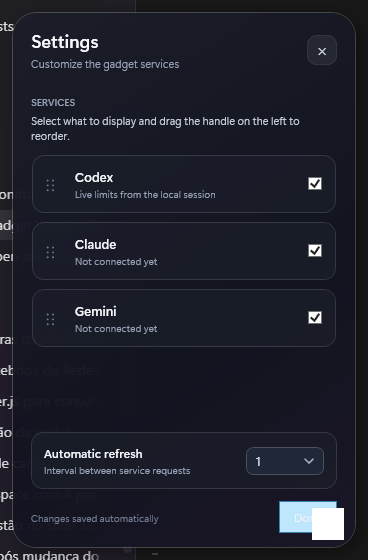
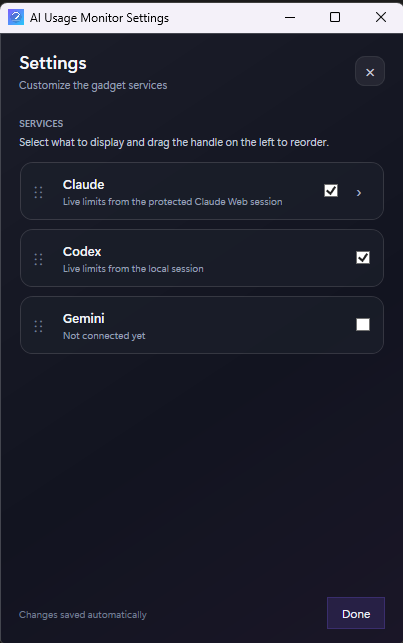
Update main README

diff --git a/README.md b/README.md
@@ -20,7 +20,7 @@ A lightweight Windows desktop gadget that brings AI service usage limits into a 
 - Automatic Claude refresh through a protected Claude Web session.
 - Fixed provider-aware refresh intervals: five minutes for Codex and one minute for Claude.
 - Configurable provider visibility and ordering.
-- Resizable layout with scrolling when needed.
+- Compact, scroll-free gadget layout that keeps all selected services visible.
 - Built-in About view with project, author, license, and version information.
 - Automatic update availability checks through the latest stable GitHub Release.
 
@@ -37,17 +37,19 @@ The value is checked before it is saved. AI Usage Monitor never displays the sav
 
 ## Screenshots
 
-AI Usage Monitor keeps usage windows visible at a glance, including session, weekly, reserve, and reset information when provided by the connected service.
+AI Usage Monitor keeps token totals, estimated cost, usage windows, reserve, and reset information visible at a glance.
 
-### Main dashboard
+### Gadget
 
-![AI Usage Monitor dashboard](docs/screenshots/main.png)
+The flat gadget stays compact while combining live Claude and Codex usage on a single surface.
+
+![AI Usage Monitor compact gadget showing token totals and provider usage](docs/screenshots/main.png)
 
 ### Settings
 
-Choose which services are displayed, drag to change their order, and connect Claude Web securely.
+The independent settings window leaves the gadget running while services are shown, hidden, reordered, or connected.
 
-![AI Usage Monitor settings](docs/screenshots/config.png)
+![AI Usage Monitor independent settings window](docs/screenshots/config.png)
 
 ## Requirements
 
